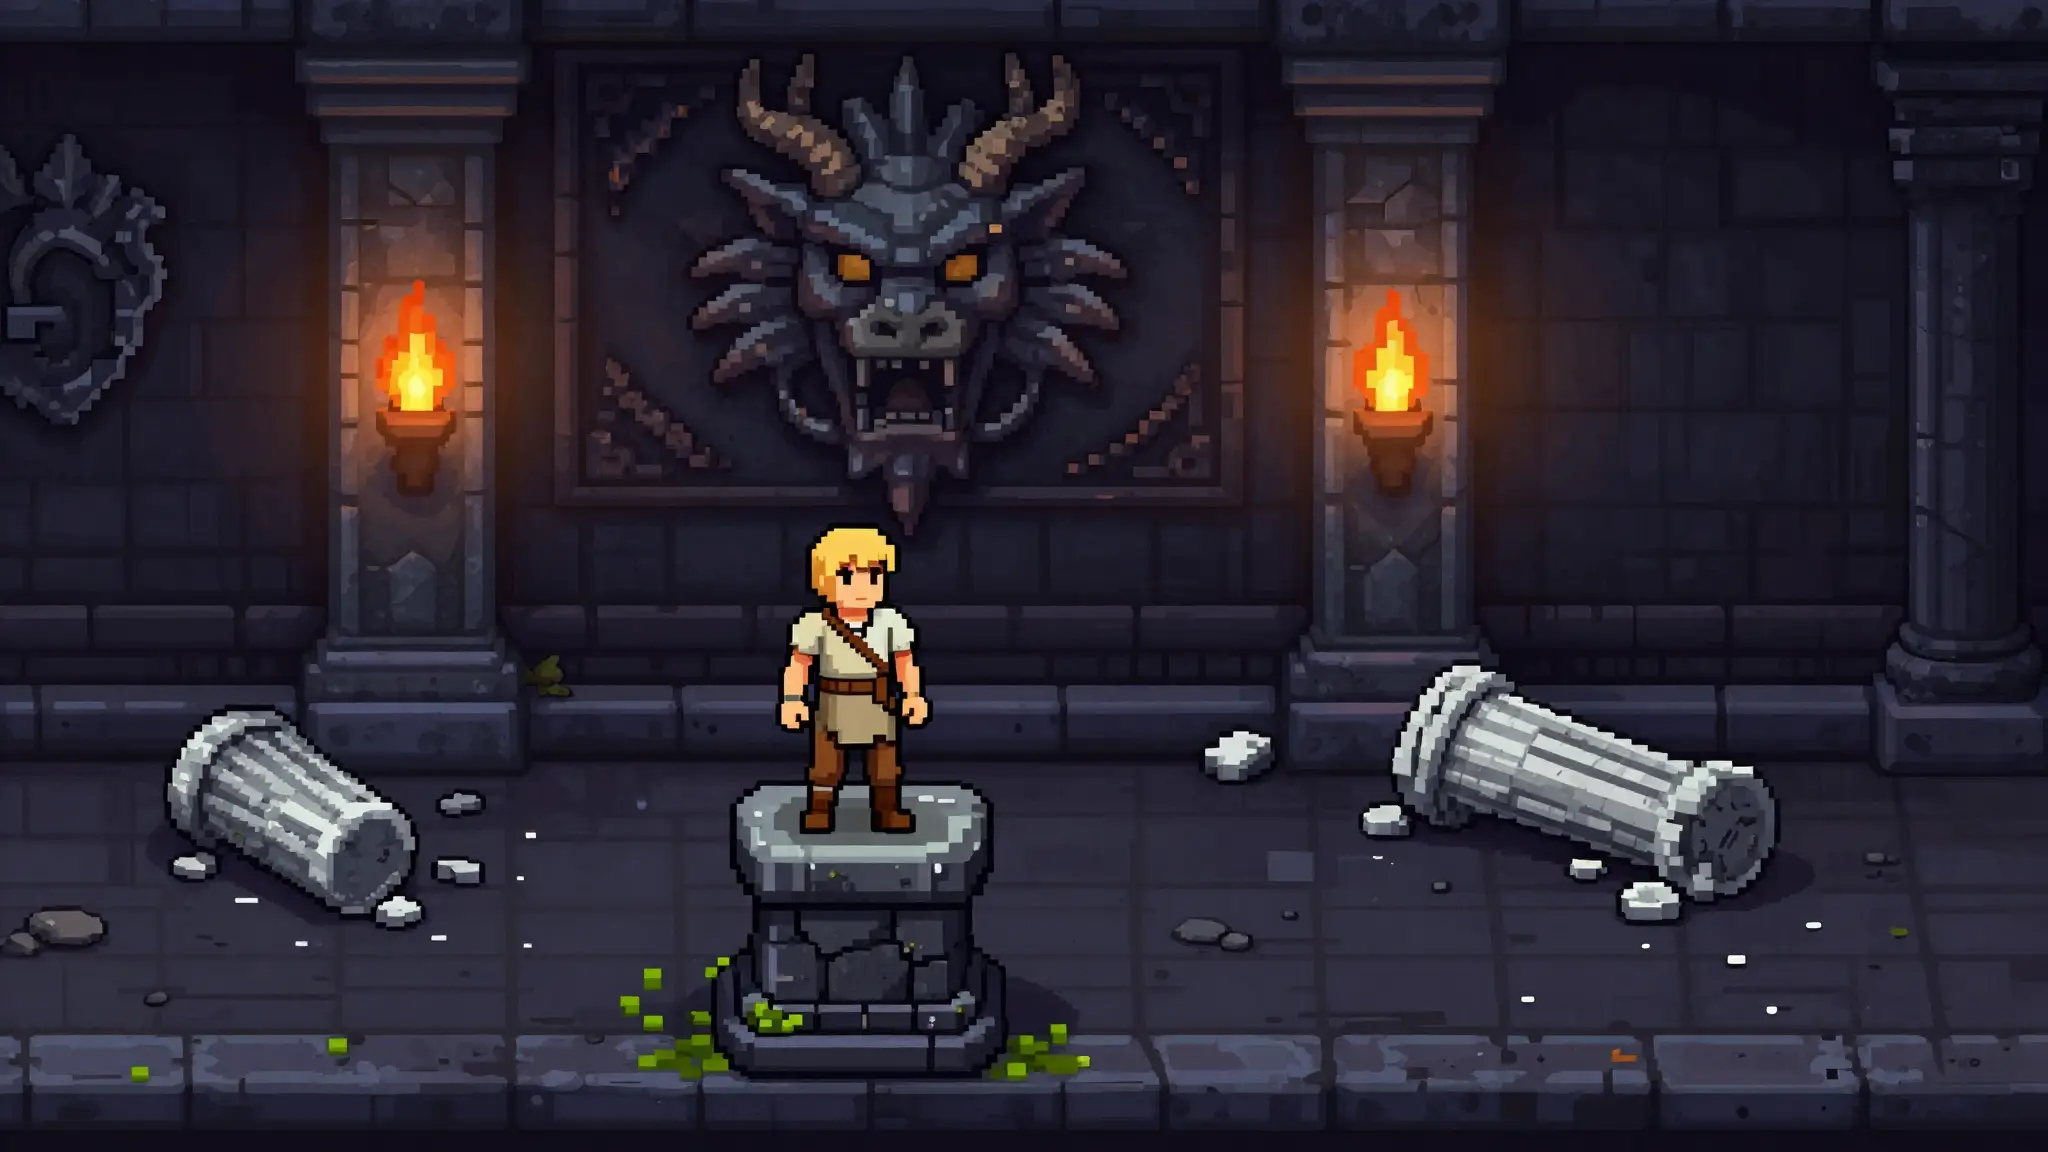
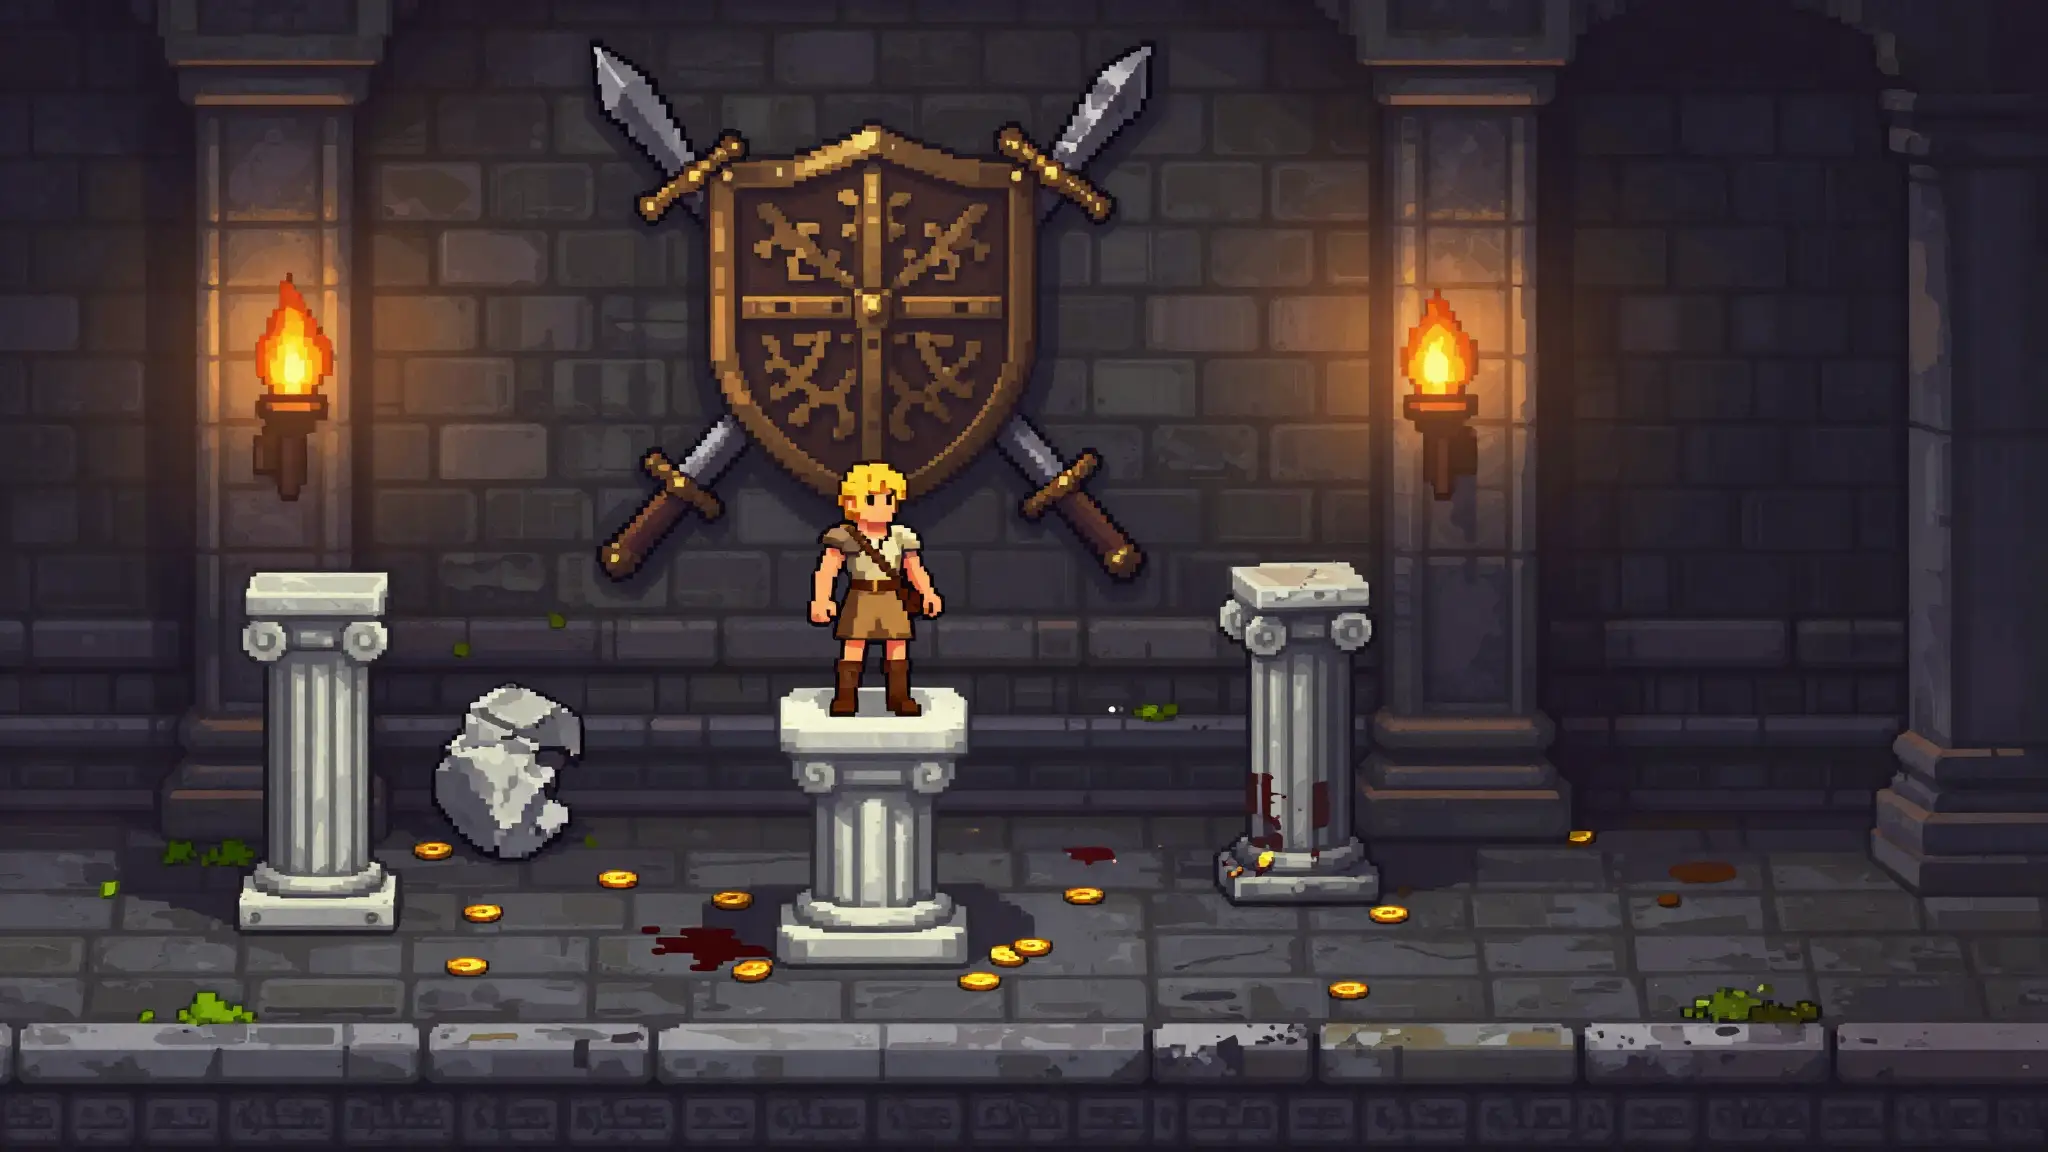
Scene polish: sword+shield wall crest, white pedestal, blood, coins
- Ornate crossed-swords + heraldic shield emblem on the back wall
- Hero back on a clean white marble column; tidier sides (less rubble)
- Add blood splatter and scattered gold coins; bottom stone ledge border
- Remove greenery; move Guest nameplate above the hero

diff --git a/art/cmp.html b/art/cmp.html
@@ -1,10 +1,9 @@
 <!DOCTYPE html><html><head><meta charset="utf-8"><style>
-body{margin:0;background:#222;display:grid;grid-template-columns:1fr 1fr;gap:5px;padding:5px}
+body{margin:0;background:#222;display:flex;flex-direction:column;gap:5px;padding:5px}
 figure{margin:0;position:relative}img{width:100%;display:block}
 figcaption{position:absolute;top:5px;left:5px;color:#fff;font:bold 18px monospace;background:#000a;padding:1px 7px}
 </style></head><body>
-<figure><img src="../assets/v1.webp"><figcaption>v1</figcaption></figure>
-<figure><img src="../assets/v2.webp"><figcaption>v2</figcaption></figure>
-<figure><img src="../assets/v3.webp"><figcaption>v3</figcaption></figure>
-<figure><img src="../assets/v4.webp"><figcaption>v4</figcaption></figure>
+<figure><img src="../assets/w1.webp"><figcaption>w1</figcaption></figure>
+<figure><img src="../assets/w2.webp"><figcaption>w2</figcaption></figure>
+<figure><img src="../assets/w3.webp"><figcaption>w3</figcaption></figure>
 </body></html>

diff --git a/cmp-shot.js b/cmp-shot.js
@@ -1,5 +1,5 @@
 const puppeteer=require('puppeteer-core');const path=require('path');
 (async()=>{const b=await puppeteer.launch({executablePath:'/root/.cache/puppeteer/chrome/linux-131.0.6778.204/chrome-linux64/chrome',headless:'new',args:['--no-sandbox','--disable-setuid-sandbox']});
-const p=await b.newPage();await p.setViewport({width:1300,height:760,deviceScaleFactor:1});
+const p=await b.newPage();await p.setViewport({width:900,height:1150,deviceScaleFactor:1});
 await p.goto('file://'+path.resolve(__dirname,'art/cmp.html'),{waitUntil:'networkidle2'});
 await new Promise(r=>setTimeout(r,500));await p.screenshot({path:'cmp.png',fullPage:true});await b.close();console.log('ok');})();

diff --git a/css/style.css b/css/style.css
@@ -509,7 +509,7 @@ html,body{height:100%;overflow:hidden}
 .status{margin-top:16px}
 
 /* nameplate over the baked hero */
-.plate{position:fixed;left:46%;top:10%;transform:translateX(-50%);z-index:11;
+.plate{position:fixed;left:50%;top:39%;transform:translateX(-50%);z-index:11;
    font-family:var(--fancy);font-size:27px;color:#f4ecd9;white-space:nowrap;
    display:flex;align-items:center;gap:11px;
    text-shadow:0 2px 0 #000,0 0 18px rgba(0,0,0,.95)}
